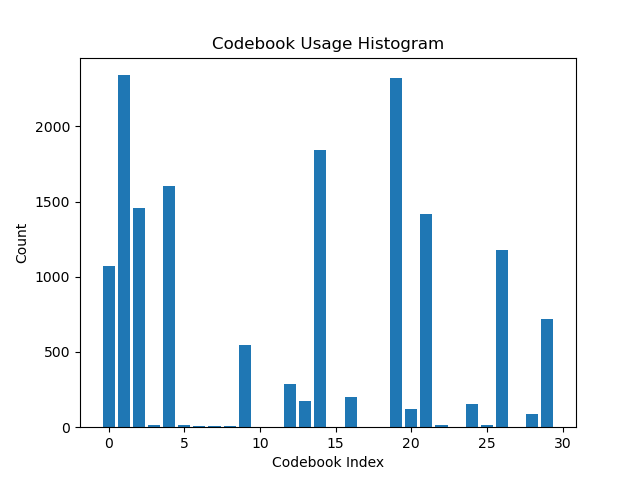
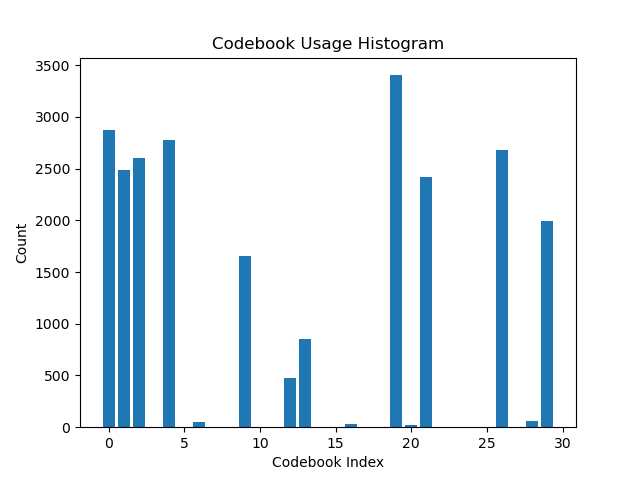
updated

diff --git a/src/train.py b/src/train.py
@@ -35,7 +35,7 @@ config = yaml.load( open("config/try1.yaml", "r"), Loader=yaml.FullLoader)
 
 # step 01 :- Prepare the speech dataset.
 from dataset_speech import Dataset_speech
-sdataset = Dataset_speech(input_manifest=config['dataset_speech']['path'], min_duration=32000, max_duration=160000)
+sdataset = Dataset_speech(input_manifest=config['dataset_speech']['path'], min_duration=32000, max_duration=320000)
 ssampler = SequentialSampler(sdataset)
 sbatch_sampler = ShuffledBatchSampler(ssampler, batch_size=64, drop_last=False)
 sdataloader = DataLoader(
@@ -261,13 +261,13 @@ if __name__ == "__main__":
             output['dec_mask'] = dec_mask
             
             # ===== Loss Computation =====
-            
             total_loss = loss.step_gen(output, step, num_steps)
             # ===== Backward Pass ===== 
-            optimizer_gen.zero_grad()
             total_loss.backward()
             torch.nn.utils.clip_grad_norm_(gen_params, max_norm=5.0)
-            optimizer_gen.step()
+            if (step) % 1 == 0:
+                optimizer_gen.step()
+                optimizer_gen.zero_grad()
             
             step +=1
             

diff --git a/src/loss.py b/src/loss.py
@@ -129,8 +129,9 @@ class Loss:
         # gen_loss = F.binary_cross_entropy_with_logits(output["dis_fake"], torch.zeros_like(output["dis_fake"]))
         # gen_loss *= self.config["gen_loss_weight"]
         
-        
-        print(f"GEN-LOSS---step/total: {step}/{total_steps} rec_loss: {rec_loss}, commit_loss: {commit_loss}, smooth_loss: {smooth_loss}, gen_loss: {gen_loss}")
+        if (step) % 100 == 0:
+            print(f"GEN-LOSS---step/total: {step}/{total_steps} rec_loss: {rec_loss}, commit_loss: {commit_loss}, smooth_loss: {smooth_loss}, gen_loss: {gen_loss}")
+            
         total_loss = rec_loss + commit_loss + smooth_loss + gen_loss
         
         return  total_loss
